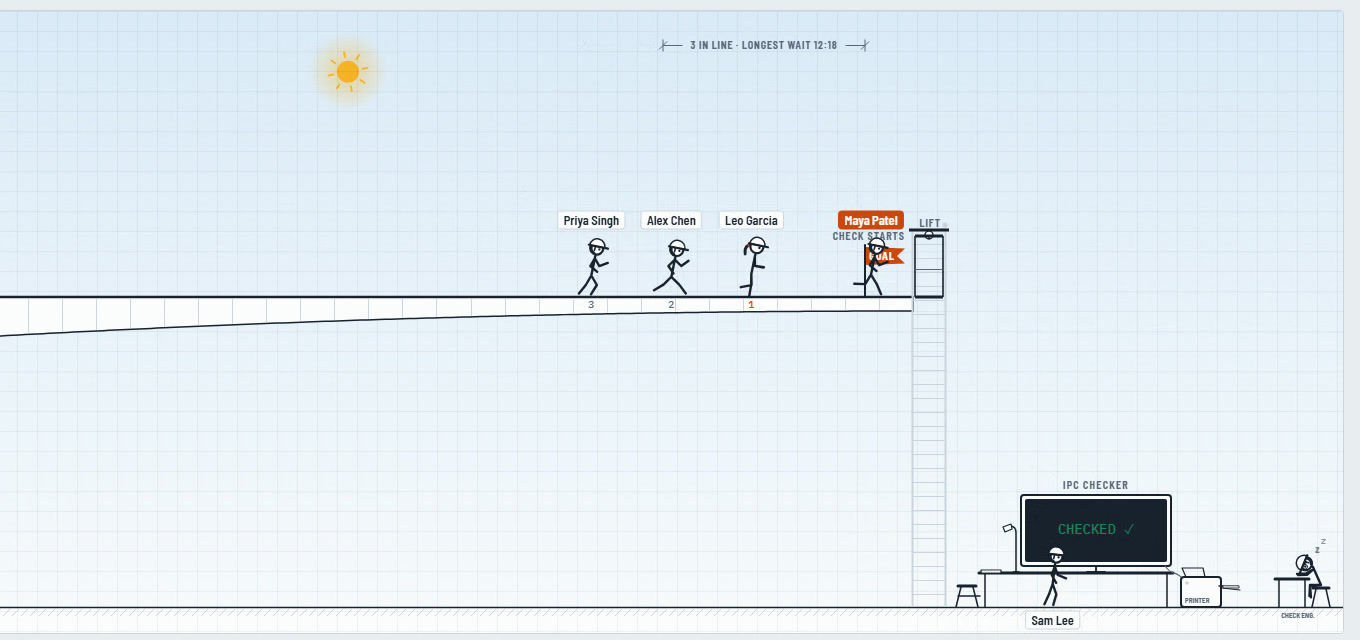
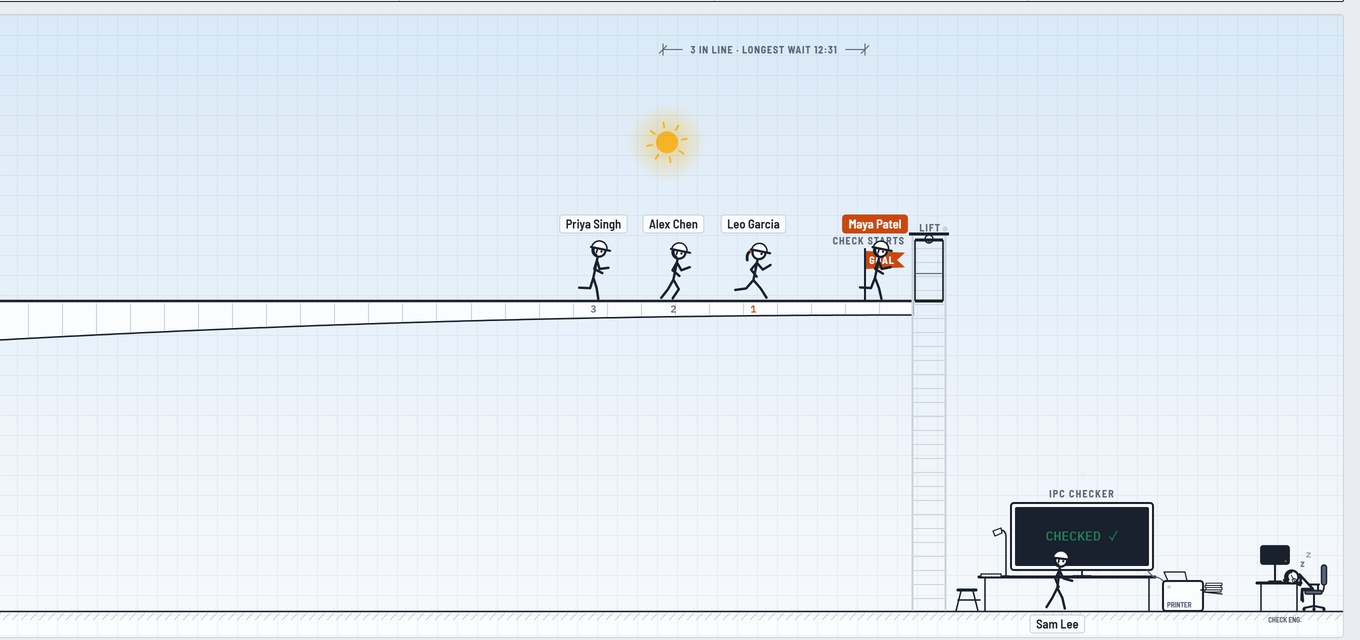
Showcase v3.0.2: new check engineer, dashboard screenshots retaken
Retake the queue dashboard screenshots (04-08, same invented engineers)
with the redrawn check engineer: office chair, his own computer, asleep
on the keyboard. Add three close-ups of him reading, asking about a page
and approving with a green tick, a Final check row in section 04, and
3.0.2 in the milestones.

diff --git a/README.md b/README.md
@@ -134,8 +134,9 @@ The page follows the uploads through these states:
 | **New upload** | A new figure walks in from the left and joins the back of the line. |
 | **Check starts** | When the checker is free, the one at the front runs to the **GOAL** flag, rides the lift down to the drafting table, and everyone behind moves up a place. |
 | **Being checked** | The checker's monitor works through the report section by section (*§ 1/7 Loads*, *§ 2/7 Bending*) and the printer prints the checked pages. |
-| **Check done** | When the result is in the Outbox, the monitor says **CHECKED ✓**, the engineer walks off with the bundle of checked calculations and moves to the **Checked** list. |
-| **Nobody waiting** | *No one in line, waiting for new uploads.* The monitor reads **READY** and the check engineer dozes off. |
+| **Check done** | When the result is in the Outbox, the monitor says **CHECKED ✓**, the engineer collects the printed report and moves to the **Checked** list. |
+| **Final check** | The engineer hands the report to the check engineer at his own desk. He wakes up, reads it page by page with the report on his computer, now and then asks about a page (*"Hmm… this load?"*), stamps it and approves it with a green tick on his screen. The engineer walks off with the bundle of checked calculations. |
+| **Nobody waiting** | *No one in line, waiting for new uploads.* The monitor reads **READY** and the check engineer dozes off on his keyboard. |
 
 <div align="center">
 
@@ -147,6 +148,14 @@ The page follows the uploads through these states:
 <tr>
 <td align="center"><img src="docs/screenshots/07_dashboard_next_check.jpg" alt="Maya Patel at the checker's desk, the monitor processing her report" width="410"><br><sub><b>Next check</b>: Maya's report is being checked.</sub></td>
 <td align="center"><img src="docs/screenshots/08_dashboard_empty.jpg" alt="The empty queue: no one in line, the monitor reads READY" width="410"><br><sub><b>Nobody waiting</b>: the checker is ready.</sub></td>
+</tr>
+</table>
+
+<table>
+<tr>
+<td align="center"><img src="docs/screenshots/09_check_engineer_reading.jpg" alt="The check engineer reading a page of Sam Lee's report, the report's lines on his screen" width="270"><br><sub><b>Reading</b>: a page in hand, the report on his screen.</sub></td>
+<td align="center"><img src="docs/screenshots/10_check_engineer_question.jpg" alt="The check engineer asking Hmm, this load? with a question mark on his screen" width="270"><br><sub><b>A question</b>: "Hmm… this load?"</sub></td>
+<td align="center"><img src="docs/screenshots/11_check_engineer_approved.jpg" alt="The check engineer approving the report: a green tick on his screen, All checks OK" width="270"><br><sub><b>Approved</b>: a green tick on his screen.</sub></td>
 </tr>
 </table>
 
@@ -325,7 +334,7 @@ Within the hour the agent writes its check to the Outbox. The pill in the header
 
 ## 09. Milestones
 
-![Latest 3.0.0](https://img.shields.io/badge/latest-3.0.0_·_Nov_2026-16235c?style=flat-square)
+![Latest 3.0.2](https://img.shields.io/badge/latest-3.0.2_·_Nov_2026-16235c?style=flat-square)
 
 How the program has grown, in what it can do.
 
@@ -335,7 +344,8 @@ How the program has grown, in what it can do.
 | **Works from every office** | Uploads and downloads over FTP, and finished checks downloaded straight from the app |
 | **Less typing** | Presets for frequently used codes, and the project name saved with every submission |
 | **Uploads list and Outbox** | See what is waiting in line and pick up each result as soon as it is ready |
-| **Latest** | 3.0.0, November 2026: the new Wiecon look, and files kept and listed as you add them |
+| **New look** | 3.0.0, November 2026: the Wiecon colours, and files kept and listed as you add them |
+| **Latest** | 3.0.2, November 2026: every engineer's upload now appears on the queue dashboard, and finished checks leave the Uploads list without restarting the app |
 
 <br>
 
